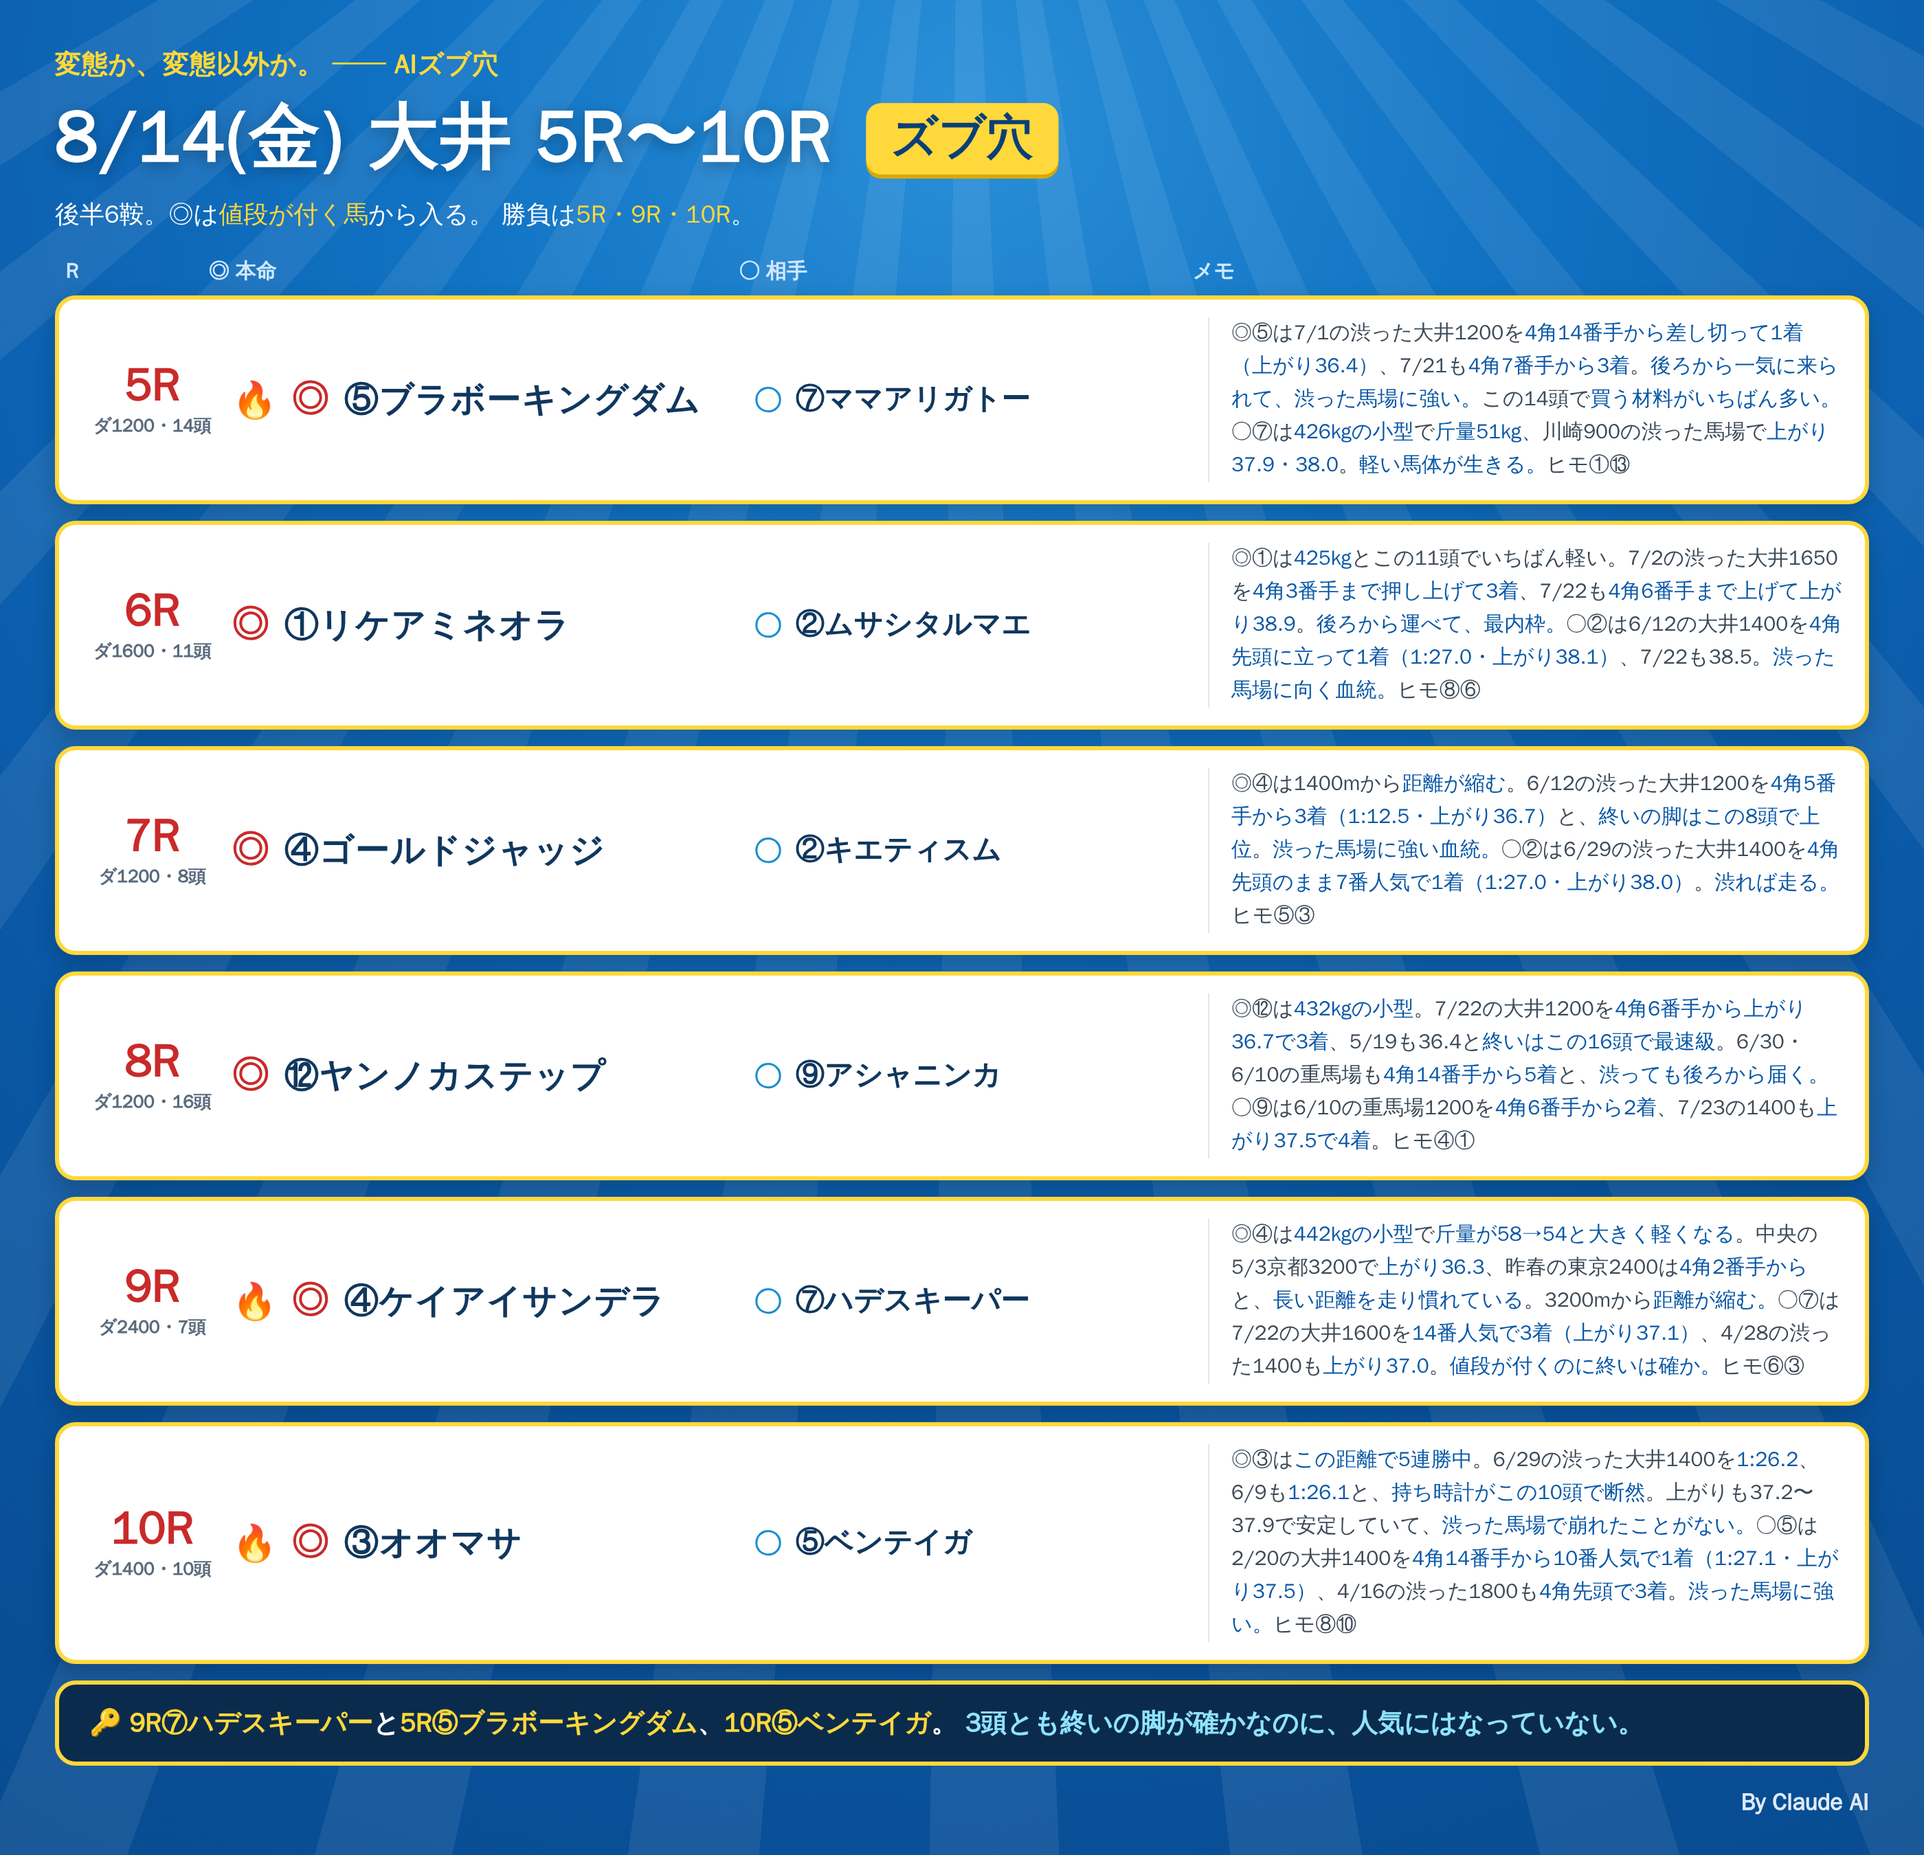
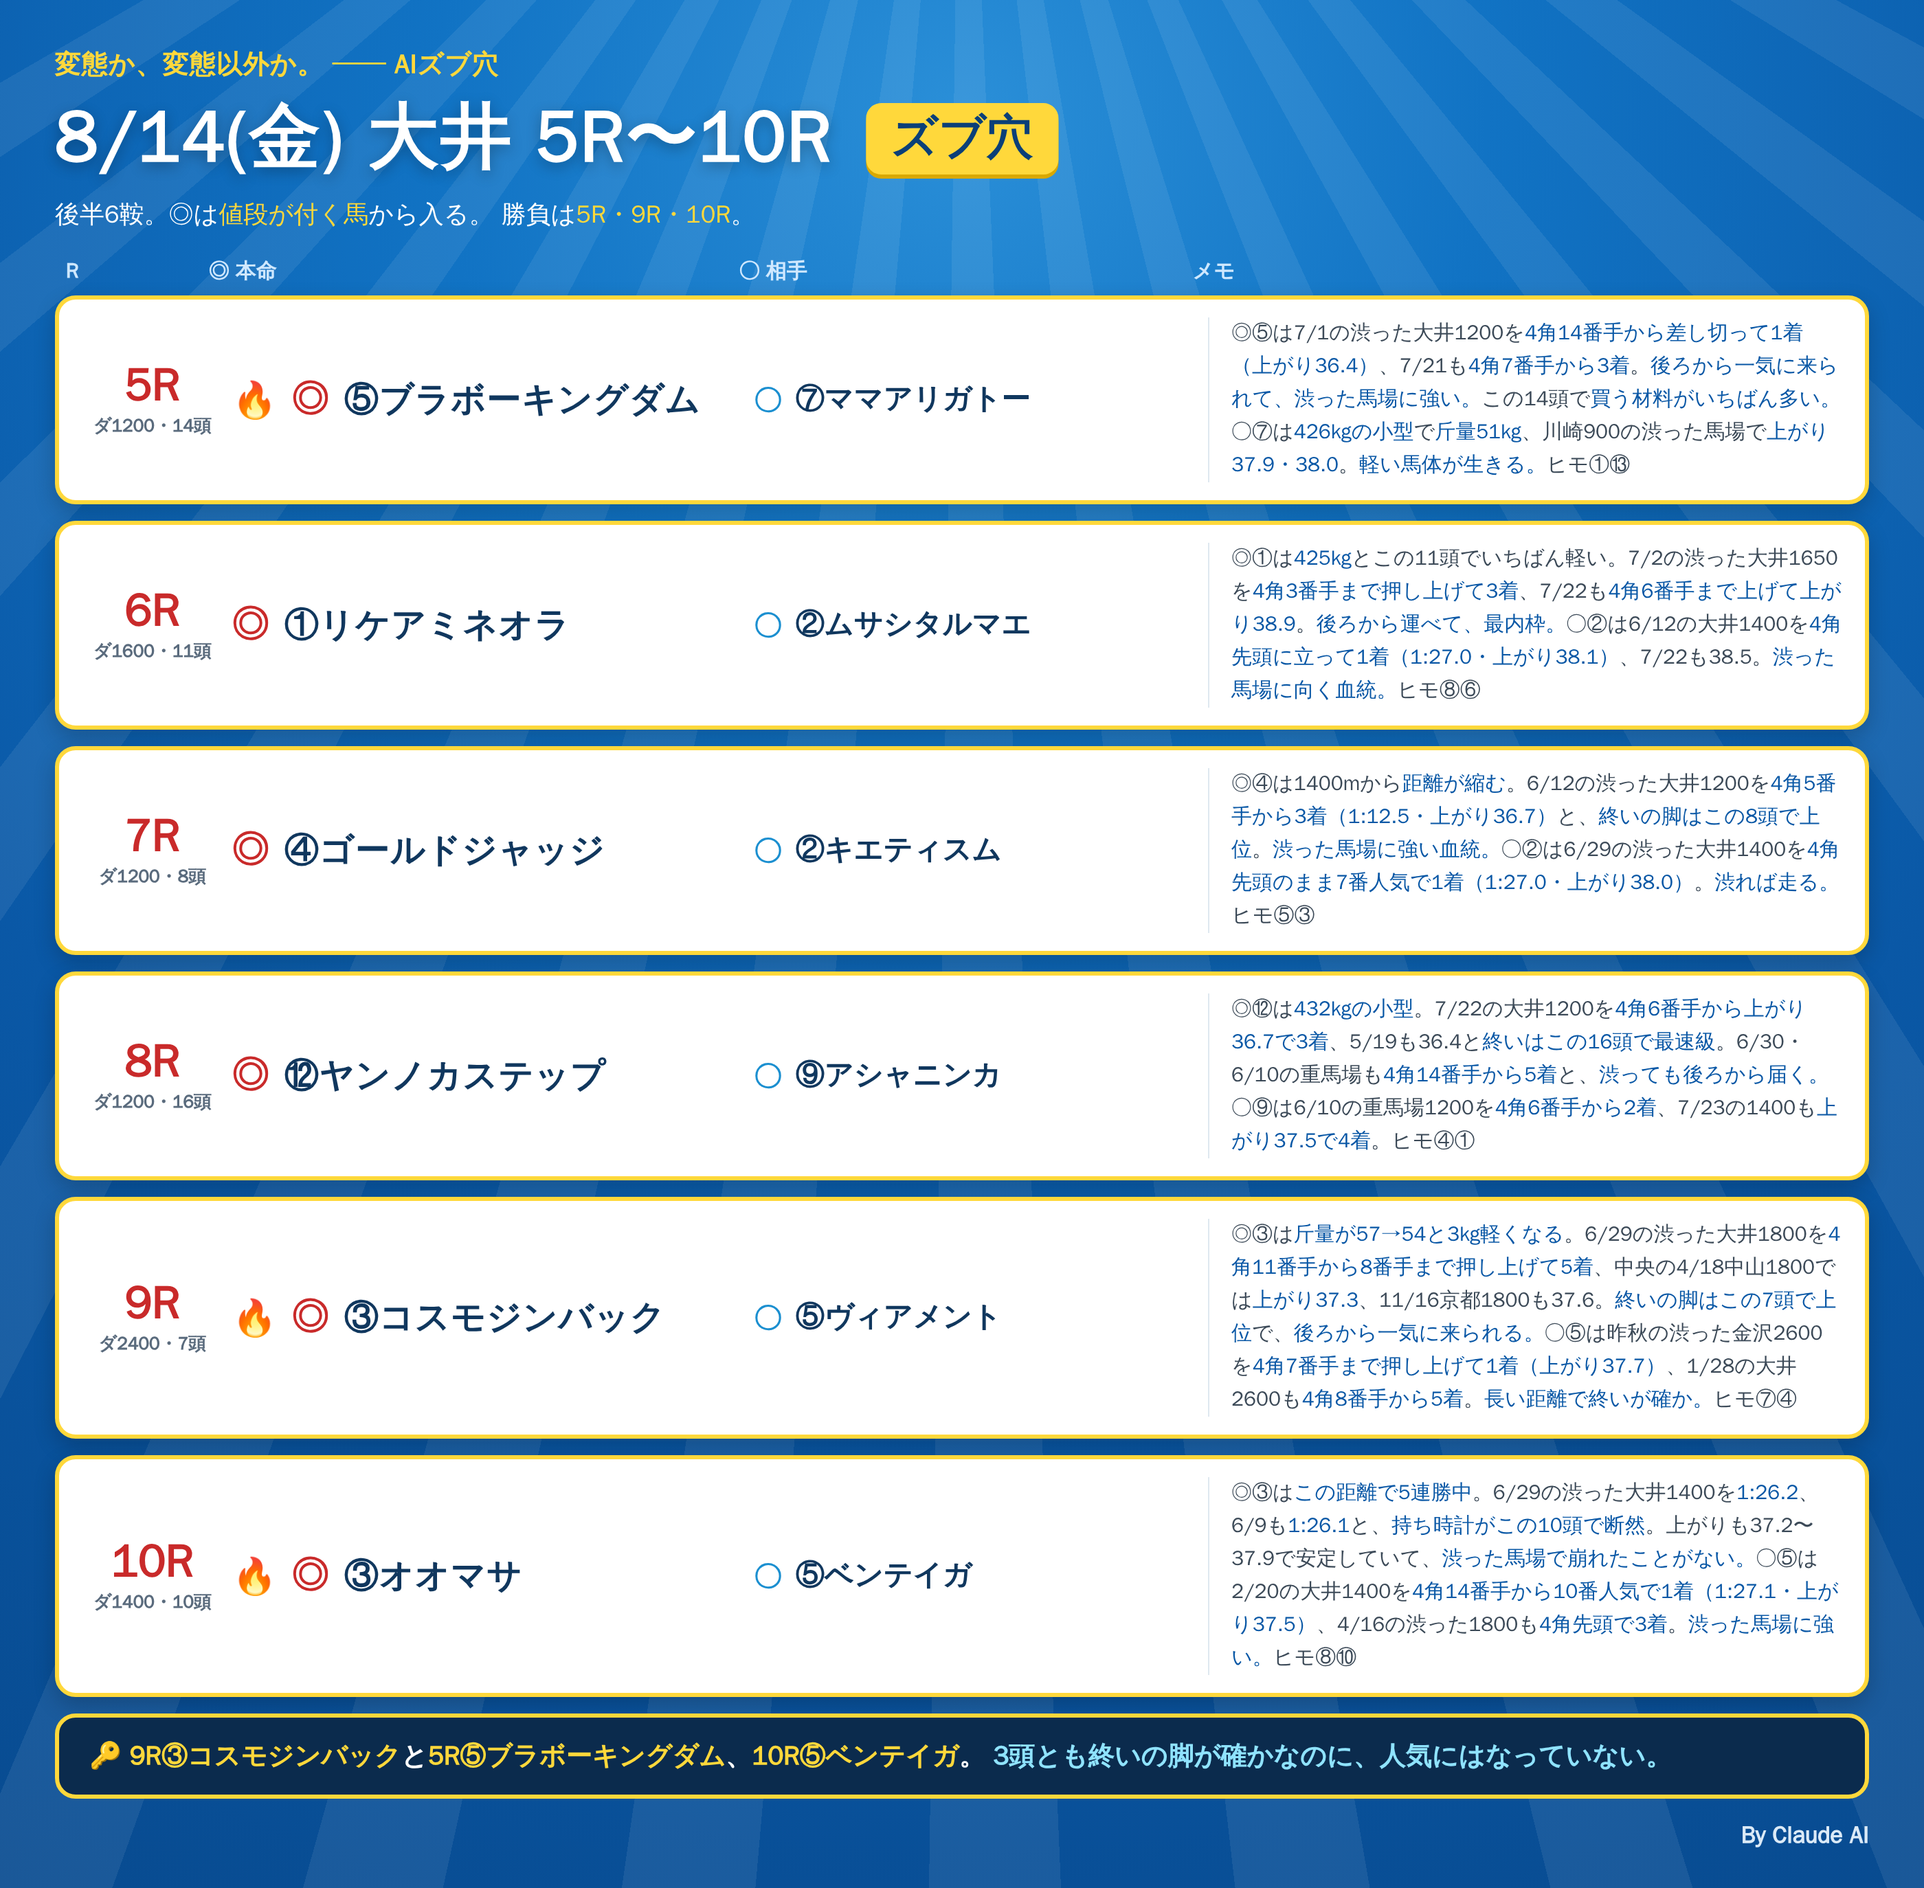
8/14大井 9R 印変更（◎③コスモジンバック ○⑤ヴィアメント）

diff --git a/notes/live/2026-08-14/oi_5_10.html b/notes/live/2026-08-14/oi_5_10.html
@@ -80,9 +80,9 @@
 
   <div class="row">
     <div class="rN"><div class="n">9R</div><div class="d">ダ2400・7頭</div></div>
-    <div class="hm"><span class="fire">🔥</span><span class="mk">◎</span><span class="nm">④ケイアイサンデラ</span></div>
-    <div class="at"><span class="mk2">○</span><span class="nm2">⑦ハデスキーパー</span></div>
-    <div class="memo">◎④は<b>442kgの小型</b>で<b>斤量が58→54と大きく軽くなる</b>。中央の5/3京都3200で<b>上がり36.3</b>、昨春の東京2400は<b>4角2番手から</b>と、<b>長い距離を走り慣れている</b>。3200mから<b>距離が縮む。</b>○⑦は7/22の大井1600を<b>14番人気で3着（上がり37.1）</b>、4/28の渋った1400も<b>上がり37.0</b>。<b>値段が付くのに終いは確か。</b>ヒモ⑥③</div>
+    <div class="hm"><span class="fire">🔥</span><span class="mk">◎</span><span class="nm">③コスモジンバック</span></div>
+    <div class="at"><span class="mk2">○</span><span class="nm2">⑤ヴィアメント</span></div>
+    <div class="memo">◎③は<b>斤量が57→54と3kg軽くなる</b>。6/29の渋った大井1800を<b>4角11番手から8番手まで押し上げて5着</b>、中央の4/18中山1800では<b>上がり37.3</b>、11/16京都1800も37.6。<b>終いの脚はこの7頭で上位</b>で、<b>後ろから一気に来られる。</b>○⑤は昨秋の渋った金沢2600を<b>4角7番手まで押し上げて1着（上がり37.7）</b>、1/28の大井2600も<b>4角8番手から5着</b>。<b>長い距離で終いが確か。</b>ヒモ⑦④</div>
   </div>
 
   <div class="row">
@@ -92,7 +92,7 @@
     <div class="memo">◎③は<b>この距離で5連勝中</b>。6/29の渋った大井1400を<b>1:26.2</b>、6/9も<b>1:26.1</b>と、<b>持ち時計がこの10頭で断然</b>。上がりも37.2〜37.9で安定していて、<b>渋った馬場で崩れたことがない。</b>○⑤は2/20の大井1400を<b>4角14番手から10番人気で1着（1:27.1・上がり37.5）</b>、4/16の渋った1800も<b>4角先頭で3着</b>。<b>渋った馬場に強い。</b>ヒモ⑧⑩</div>
   </div>
 
-  <div class="foot">🔑 <span class="y">9R⑦ハデスキーパー</span>と<span class="y">5R⑤ブラボーキングダム</span>、<span class="y">10R⑤ベンテイガ</span>。
+  <div class="foot">🔑 <span class="y">9R③コスモジンバック</span>と<span class="y">5R⑤ブラボーキングダム</span>、<span class="y">10R⑤ベンテイガ</span>。
   <span class="c">3頭とも終いの脚が確かなのに、人気にはなっていない。</span></div>
   <div class="sig">By Claude AI</div>
 </div></div>
